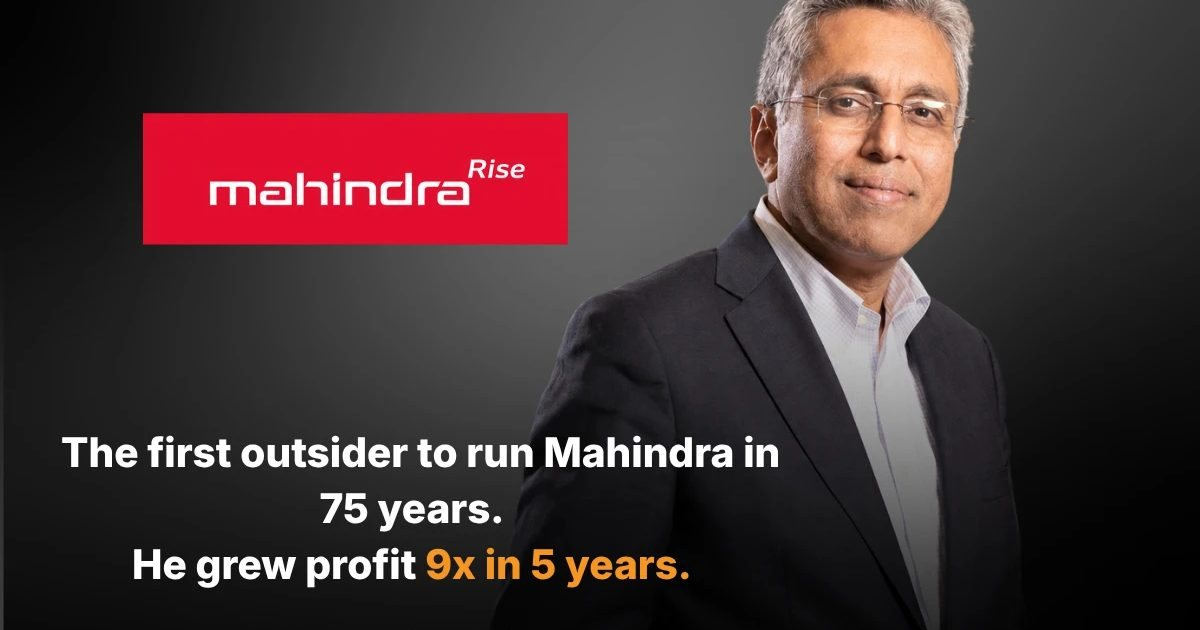
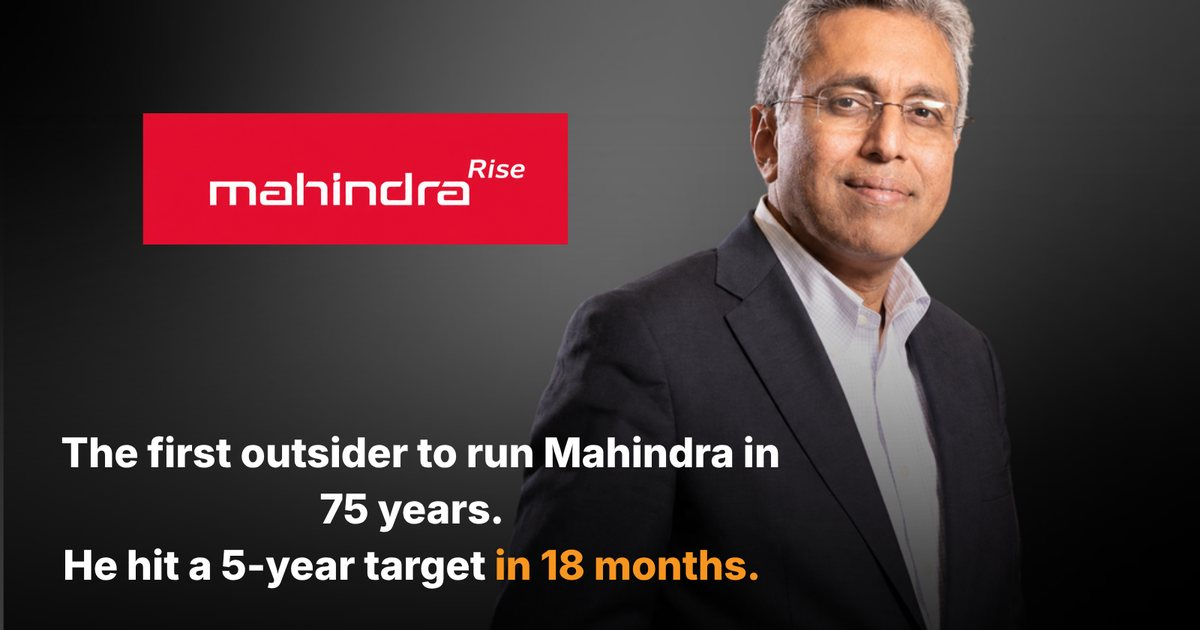
Hero images: correct four figures that disagreed with their articles
Edited in Canva on a copy of the "Inside the Boardroom cover pages" design
(the original is untouched) and exported as new files, since images/* is
cached for a year:
- Cadbury: "rebuilt it in 8 weeks" -> "won sales back in 6 months".
- IHCL: "Rs 1,908 crore profit" -> "Rs 2,084 crore" (FY26).
- Malabar: "14 years" -> "12 years"; "Rs 66,106 crore" -> "Rs 96,100 crore" (FY26).
- Mahindra: "grew profit 9x in 5 years" (not in the article) -> "hit a 5-year
  target in 18 months".
Article heroes, Article JSON-LD image, homepage and Resources thumbnails and
the four share images now use the corrected versions.

Claude-Session: https://claude.ai/code/session_01P5NQJNrDsJCLYB9NzZapYu

diff --git a/article-anish-shah-mahindra-turnaround.html b/article-anish-shah-mahindra-turnaround.html
@@ -48,7 +48,7 @@
       "logo": { "@type": "ImageObject", "url": "https://boardroomcxo.com/images/logo-boardroomcxo-transparent.png", "width": 341, "height": 150 }
     },
     "mainEntityOfPage": "https://boardroomcxo.com/article-anish-shah-mahindra-turnaround",
-    "image": "https://boardroomcxo.com/images/anish-shah-mahindra-turnaround.webp"
+    "image": "https://boardroomcxo.com/images/anish-shah-mahindra-turnaround-v2.webp"
   }
   </script>
   <script type="application/ld+json">
@@ -159,7 +159,7 @@
 </section>
 
 <article class="article-body container">
-  <img loading="eager" fetchpriority="high" width="1200" height="900" src="images/anish-shah-mahindra-turnaround.webp" alt="Anish Shah, the first person outside the founding family to lead Mahindra Group in 75 years, who hit the group's five-year return-on-equity target in eighteen months" style="width:100%;aspect-ratio:4/3;object-fit:cover;border:1px solid var(--line);margin-bottom:40px;" />
+  <img loading="eager" fetchpriority="high" width="1200" height="900" src="images/anish-shah-mahindra-turnaround-v2.webp" alt="Anish Shah, the first person outside the founding family to lead Mahindra Group in 75 years, who hit the group's five-year return-on-equity target in eighteen months" style="width:100%;aspect-ratio:4/3;object-fit:cover;border:1px solid var(--line);margin-bottom:40px;" />
 
   <div class="article-faq" data-testid="key-takeaways" style="margin-top:0;padding-top:0;border-top:0;">
     <h2>Key Takeaways</h2>

diff --git a/article-puneet-chhatwal-ihcl-taj.html b/article-puneet-chhatwal-ihcl-taj.html
@@ -48,7 +48,7 @@
       "logo": { "@type": "ImageObject", "url": "https://boardroomcxo.com/images/logo-boardroomcxo-transparent.png", "width": 341, "height": 150 }
     },
     "mainEntityOfPage": "https://boardroomcxo.com/article-puneet-chhatwal-ihcl-taj",
-    "image": "https://boardroomcxo.com/images/puneet-chhatwal-ihcl-taj.webp"
+    "image": "https://boardroomcxo.com/images/puneet-chhatwal-ihcl-taj-v2.webp"
   }
   </script>
   <script type="application/ld+json">
@@ -159,7 +159,7 @@
 </section>
 
 <article class="article-body container">
-  <img loading="eager" fetchpriority="high" width="1200" height="900" src="images/puneet-chhatwal-ihcl-taj.webp" alt="Puneet Chhatwal, managing director and CEO of the Indian Hotels Company Limited, who cut the share of hotels the company owns or leases while growing the portfolio to 645 hotels" style="width:100%;aspect-ratio:4/3;object-fit:cover;border:1px solid var(--line);margin-bottom:40px;" />
+  <img loading="eager" fetchpriority="high" width="1200" height="900" src="images/puneet-chhatwal-ihcl-taj-v2.webp" alt="Puneet Chhatwal, managing director and CEO of the Indian Hotels Company Limited, who cut the share of hotels the company owns or leases while growing the portfolio to 645 hotels" style="width:100%;aspect-ratio:4/3;object-fit:cover;border:1px solid var(--line);margin-bottom:40px;" />
 
   <div class="article-faq" data-testid="key-takeaways" style="margin-top:0;padding-top:0;border-top:0;">
     <h2>Key Takeaways</h2>

diff --git a/article-bharat-puri-cadbury-worm-crisis.html b/article-bharat-puri-cadbury-worm-crisis.html
@@ -48,7 +48,7 @@
       "logo": { "@type": "ImageObject", "url": "https://boardroomcxo.com/images/logo-boardroomcxo-transparent.png", "width": 341, "height": 150 }
     },
     "mainEntityOfPage": "https://boardroomcxo.com/article-bharat-puri-cadbury-worm-crisis",
-    "image": "https://boardroomcxo.com/images/catburry.webp"
+    "image": "https://boardroomcxo.com/images/bharat-puri-cadbury-worm-crisis-v2.webp"
   }
   </script>
   <script type="application/ld+json">
@@ -175,7 +175,7 @@
 </section>
 
 <article class="article-body container">
-  <img loading="eager" fetchpriority="high" src="images/catburry.webp" alt="Cadbury Dairy Milk bars, the product at the center of the October 2003 worm contamination crisis that Managing Director Bharat Puri resolved with a redesigned, sealed double wrapper" width="1200" height="900" style="width:100%;aspect-ratio:16/9;object-fit:cover;border:1px solid var(--line);margin-bottom:40px;" />
+  <img loading="eager" fetchpriority="high" src="images/bharat-puri-cadbury-worm-crisis-v2.webp" alt="Cadbury Dairy Milk bars, the product at the center of the October 2003 worm contamination crisis that Managing Director Bharat Puri resolved with a redesigned, sealed double wrapper" width="1200" height="900" style="width:100%;aspect-ratio:16/9;object-fit:cover;border:1px solid var(--line);margin-bottom:40px;" />
 
   <div class="article-faq" data-testid="key-takeaways" style="margin-top:0;padding-top:0;border-top:0;">
     <h2>Key Takeaways</h2>

diff --git a/index.html b/index.html
@@ -767,7 +767,7 @@
 
     <div class="blog-grid">
       <article class="blog-item" data-testid="blog-1">
-        <div class="blog-img-wrap"><img width="1200" height="900" src="images/puneet-chhatwal-ihcl-taj.webp" alt="Puneet Chhatwal: He Grew the Taj by Owning Less of It" loading="lazy" style="filter:none;" /></div>
+        <div class="blog-img-wrap"><img width="1200" height="900" src="images/puneet-chhatwal-ihcl-taj-v2.webp" alt="Puneet Chhatwal: He Grew the Taj by Owning Less of It" loading="lazy" style="filter:none;" /></div>
         <div class="blog-meta">
           <span class="cat">Founder Leadership</span>
           <span class="date">September 2026</span>
@@ -787,7 +787,7 @@
         <a href="/article-gopal-vittal-airtel-arpu" class="link-under">Read Article →</a>
       </article>
       <article class="blog-item" data-testid="blog-3">
-        <div class="blog-img-wrap"><img width="1200" height="900" src="images/mp-ahammed-malabar-gold.webp" alt="M P Ahammed: How a Coconut Trader Built India's Largest Jeweller" loading="lazy" style="filter:none;" /></div>
+        <div class="blog-img-wrap"><img width="1200" height="900" src="images/mp-ahammed-malabar-gold-v2.webp" alt="M P Ahammed: How a Coconut Trader Built India's Largest Jeweller" loading="lazy" style="filter:none;" /></div>
         <div class="blog-meta">
           <span class="cat">Founder Leadership</span>
           <span class="date">September 2026</span>

diff --git a/article-mp-ahammed-malabar-gold.html b/article-mp-ahammed-malabar-gold.html
@@ -48,7 +48,7 @@
       "logo": { "@type": "ImageObject", "url": "https://boardroomcxo.com/images/logo-boardroomcxo-transparent.png", "width": 341, "height": 150 }
     },
     "mainEntityOfPage": "https://boardroomcxo.com/article-mp-ahammed-malabar-gold",
-    "image": "https://boardroomcxo.com/images/mp-ahammed-malabar-gold.webp"
+    "image": "https://boardroomcxo.com/images/mp-ahammed-malabar-gold-v2.webp"
   }
   </script>
   <script type="application/ld+json">
@@ -159,7 +159,7 @@
 </section>
 
 <article class="article-body container">
-  <img loading="eager" fetchpriority="high" width="1200" height="900" src="images/mp-ahammed-malabar-gold.webp" alt="M P Ahammed, founder and chairman of Malabar Gold & Diamonds, who funded his jewellery chain's expansion by selling debentures to investors in the Gulf" style="width:100%;aspect-ratio:4/3;object-fit:cover;border:1px solid var(--line);margin-bottom:40px;" />
+  <img loading="eager" fetchpriority="high" width="1200" height="900" src="images/mp-ahammed-malabar-gold-v2.webp" alt="M P Ahammed, founder and chairman of Malabar Gold & Diamonds, who funded his jewellery chain's expansion by selling debentures to investors in the Gulf" style="width:100%;aspect-ratio:4/3;object-fit:cover;border:1px solid var(--line);margin-bottom:40px;" />
 
   <div class="article-faq" data-testid="key-takeaways" style="margin-top:0;padding-top:0;border-top:0;">
     <h2>Key Takeaways</h2>

diff --git a/resources.html b/resources.html
@@ -159,7 +159,7 @@
       </div>
     </div>
     <div class="featured-article">
-      <a href="/article-puneet-chhatwal-ihcl-taj"><img width="1200" height="900" loading="lazy" src="images/puneet-chhatwal-ihcl-taj.webp" alt="Puneet Chhatwal: He Grew the Taj by Owning Less of It" class="featured-article-img" style="height:auto;filter:none;aspect-ratio:4/3;"></a>
+      <a href="/article-puneet-chhatwal-ihcl-taj"><img width="1200" height="900" loading="lazy" src="images/puneet-chhatwal-ihcl-taj-v2.webp" alt="Puneet Chhatwal: He Grew the Taj by Owning Less of It" class="featured-article-img" style="height:auto;filter:none;aspect-ratio:4/3;"></a>
       <div>
         <div class="blog-meta"><span class="cat">Founder Leadership</span><span class="date">September 2026</span></div>
         <h2><a href="/article-puneet-chhatwal-ihcl-taj" style="color:inherit;">Puneet Chhatwal: He Grew the Taj by Owning Less of It</a></h2>
